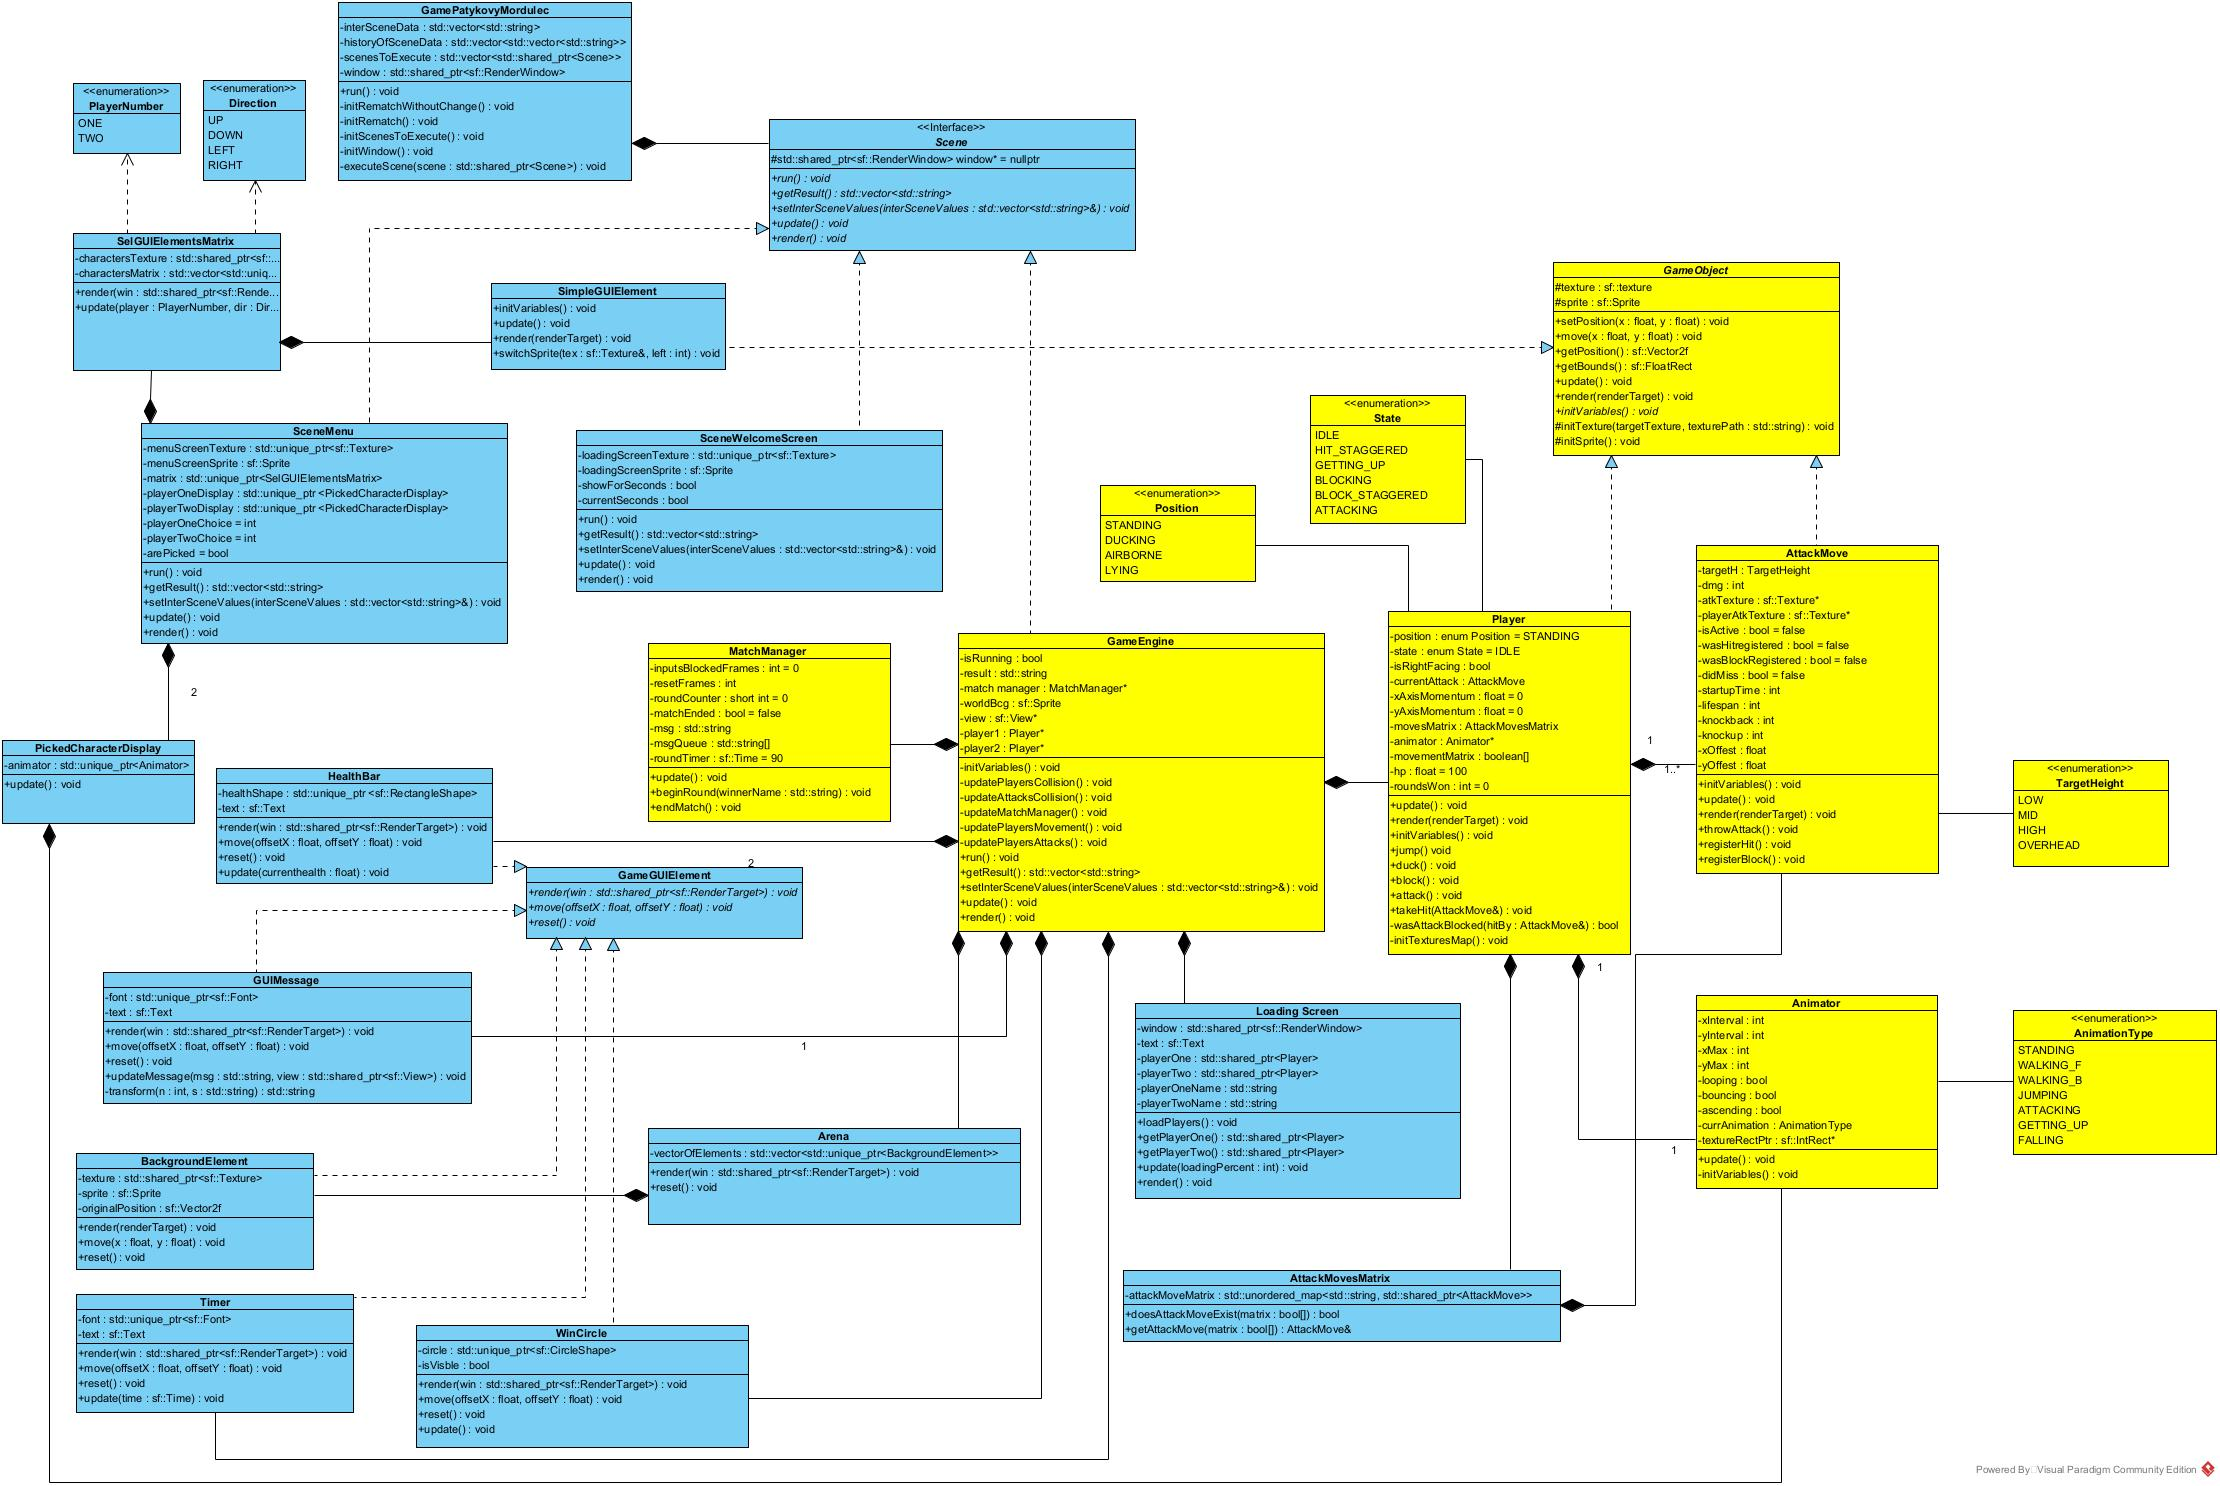
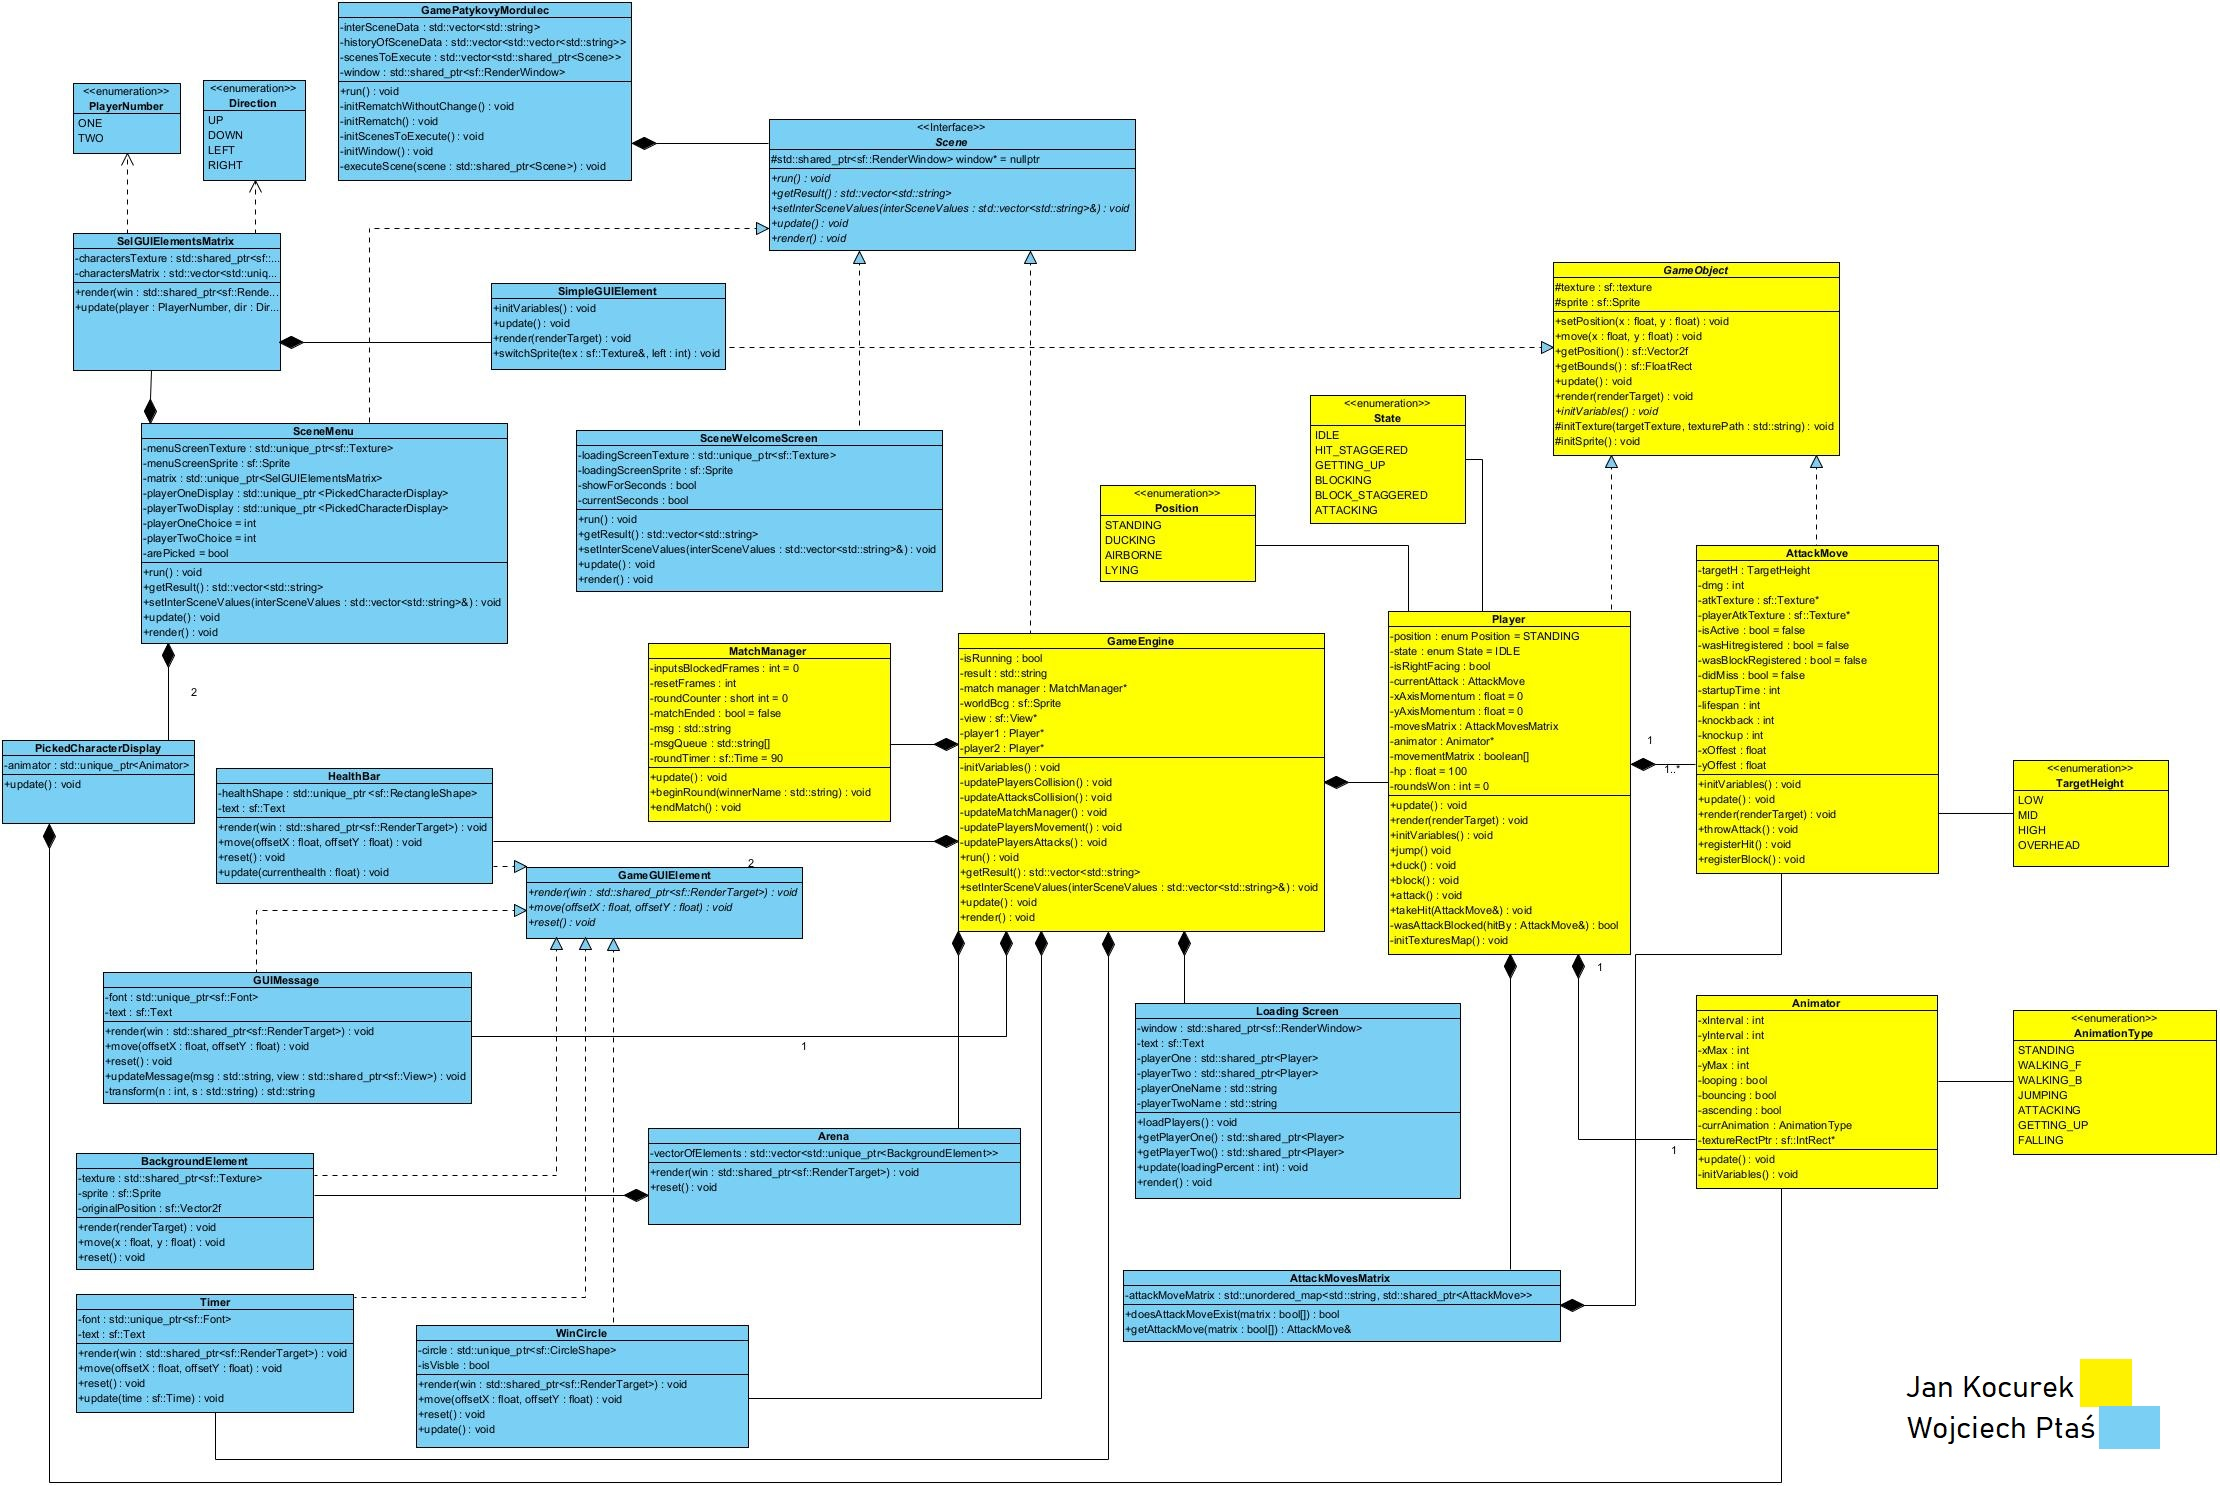
sprawozdanie

diff --git a/sprawozdanie.md b/sprawozdanie.md
@@ -54,7 +54,7 @@ Dodatkowo utworzone będą oryginalne postacie, wraz z pasujacymi do ich wygląd
 
 ## 2.7 Optymalizacja
 
-Gry gatunku bijatyka mocno opierają się na szybkich reakjcach graczy. Z tego powodu płynna i responsywna rozgrywka jest wyjątkowo istotna. Wymagane jest, aby silnik posostawiał wiele miejsca na optymalizację. Ważne jest unikanie czasochłonnych operacji oraz sprawna identyfikacja punktów krytycznych.  
+Gry z gatunku bijatyka mocno opierają się na szybkich reakcjach graczy. Z tego powodu płynna i responsywna rozgrywka jest wyjątkowo istotna. Wymagane jest, aby silnik posostawiał wiele miejsca na optymalizację. Ważne jest unikanie czasochłonnych operacji oraz sprawna identyfikacja punktów krytycznych.  
 
 ## 2.8 Biblioteki zewnętrzne
 
@@ -95,7 +95,7 @@ Właściwy mecz rozpoczyna się od wyświetlenia numeru rundy, oraz komunikatu t
 
 ### 3.4.1 Zegar
 
-Każda z rund trwa 90 sekund, po tym upływie tego czasu zwycięża gracz z większą ilością zdrowia.
+Każda z rund trwa 90 sekund, po upływie tego czasu zwycięża gracz z większą ilością zdrowia.
 
 ### 3.4.2 Poruszanie się
 
@@ -123,7 +123,7 @@ Po zakończeniu meczu gracze mają możliwość rozpoczęcia nowego meczu z tymi
 
 ## 4.1 Diagram klas
 Diagram klas, zgodny ze standardami UML, wraz z wydzielonymi odpowidzialnościami każdego z autorów, znajduje się w załączniku. 
-
+Kolorem żółtym zaznaczono klasy zaimplementowane przez Jana Kocurka, a niebieskim przez Wojciecha Ptasia.
 ## 4.2 Wykorzystane nowoczesne biblioteki języka C++
 
 ### 4.2.1 Biblioteki menagera scen, wczytywania i GUI - Wojciech Ptaś
